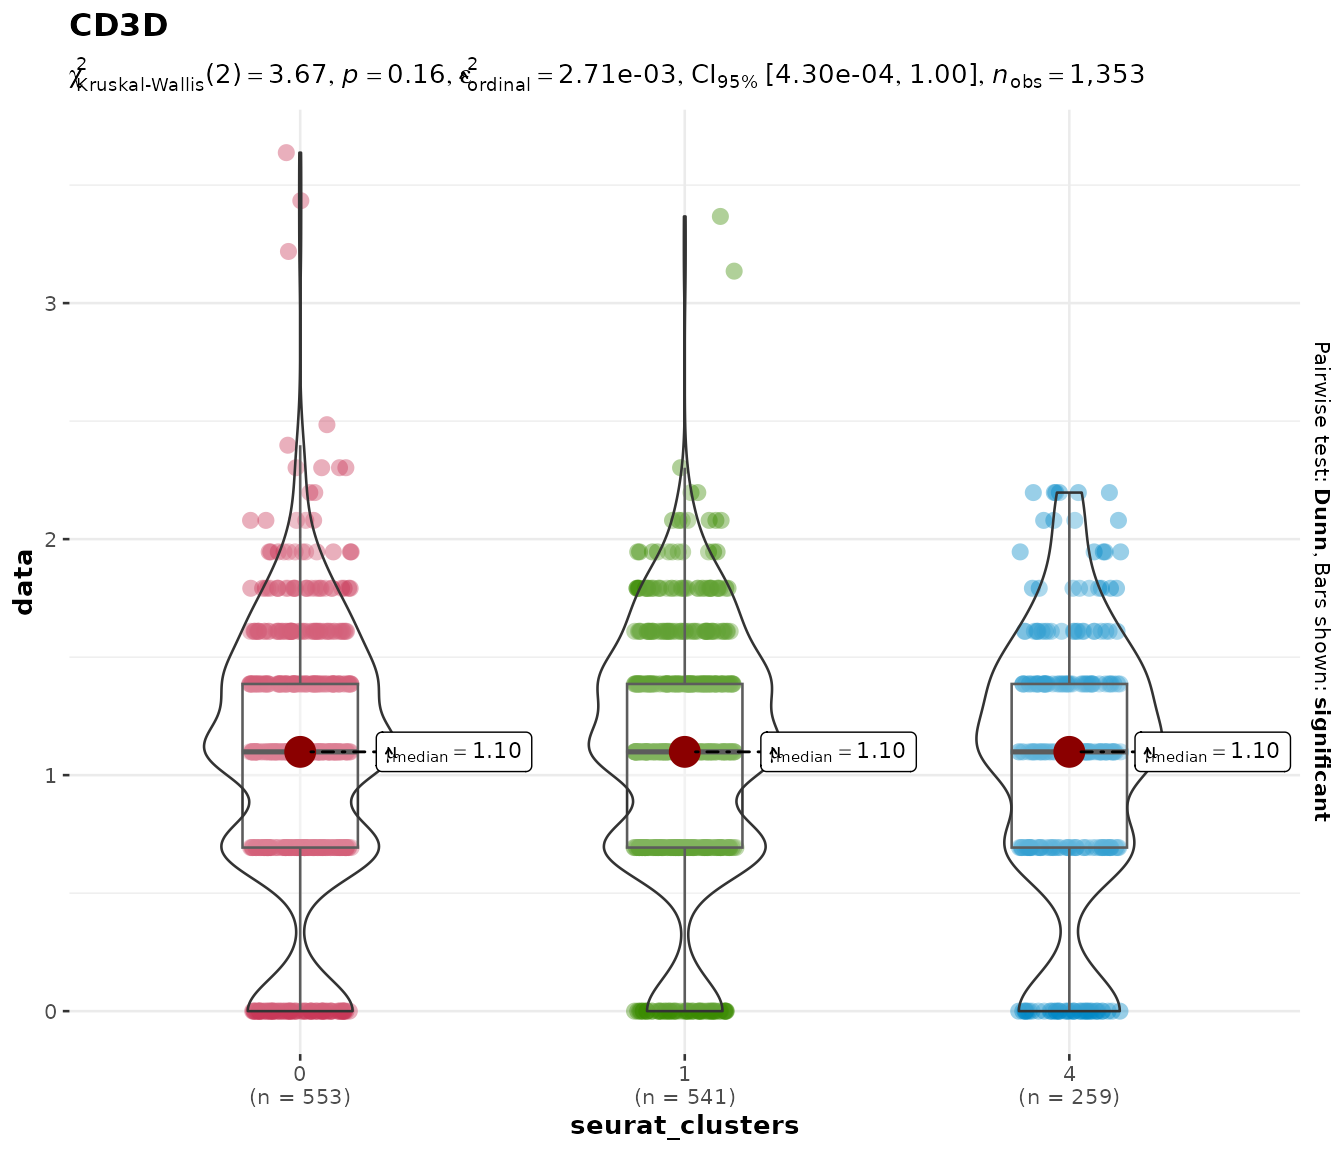
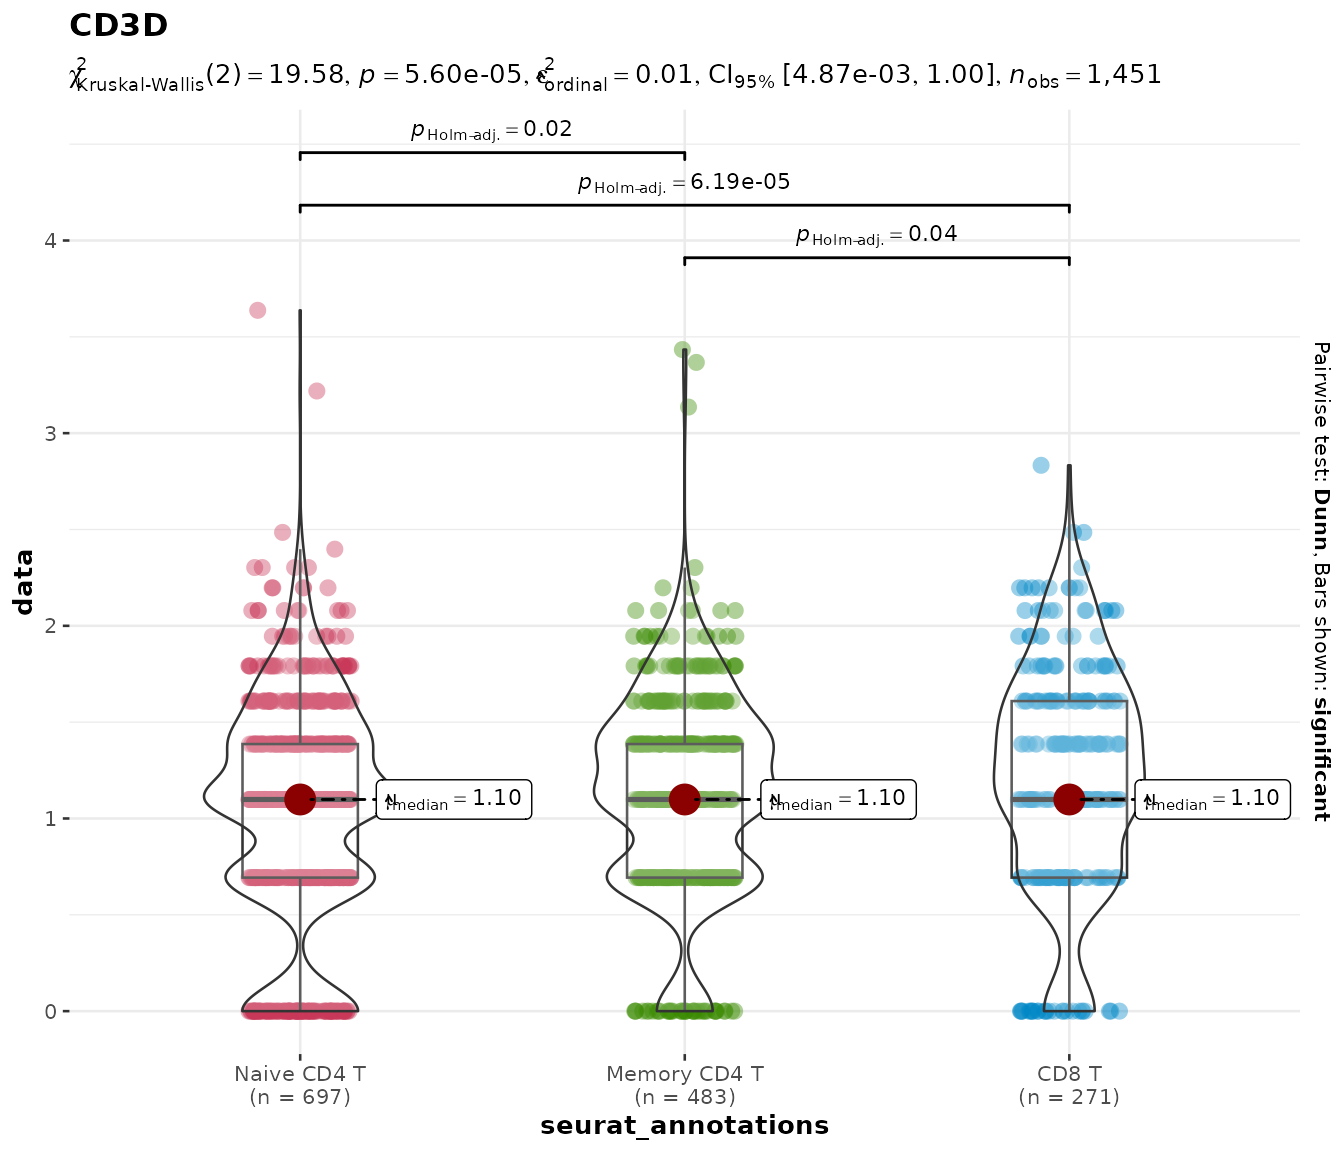
Deploying to gh-pages from @ wolf5996/BadranSeq@913fc14bdf36c6a6427538f494ae3e6e487bb031 🚀

diff --git a/articles/visualisation.html b/articles/visualisation.html
@@ -282,19 +282,19 @@ want the same aesthetic without statistics, use
 annotating the plot with p-values:</p>
 <div class="sourceCode" id="cb14"><pre class="downlit sourceCode r">
 <code class="sourceCode R"><span><span class="fu"><a href="../reference/do_StatsViolinPlot.html">do_StatsViolinPlot</a></span><span class="op">(</span><span class="va">pbmc3k</span>, features <span class="op">=</span> <span class="st">"CD3D"</span>,</span>
-<span>                   group.by <span class="op">=</span> <span class="st">"seurat_clusters"</span><span class="op">)</span></span></code></pre></div>
+<span>                   group.by <span class="op">=</span> <span class="st">"seurat_annotations"</span>,</span>
+<span>                   pairwise.display <span class="op">=</span> <span class="st">"none"</span><span class="op">)</span></span></code></pre></div>
 <pre><code><span><span class="co">## Warning: <span style="color: #BB0000;">✖</span> Number of labels is greater than default palette color count.</span></span>
 <span><span class="co">## <span style="color: #0000BB;">ℹ</span> Select another color `palette` (and/or `package`).</span></span></code></pre>
 <pre><code><span><span class="co">## Scale for <span style="color: #00BB00;">colour</span> is already present.</span></span>
 <span><span class="co">## Adding another scale for <span style="color: #00BB00;">colour</span>, which will replace the existing scale.</span></span></code></pre>
 <p><img src="visualisation_files/figure-html/stats-violin-basic-1.png" class="r-plt" alt="" width="672"></p>
+<p>With nine annotation groups, pairwise brackets would overwhelm the
+figure. The <code>pairwise.display</code> argument controls this:</p>
 </div>
 <div class="section level3">
 <h3 id="controlling-pairwise-comparisons">Controlling pairwise comparisons<a class="anchor" aria-label="anchor" href="#controlling-pairwise-comparisons"></a>
 </h3>
-<p>With many groups, pairwise brackets quickly clutter the plot. The
-<code>pairwise.display</code> argument controls which comparisons are
-drawn:</p>
 <table class="table">
 <thead><tr class="header">
 <th>Value</th>
@@ -322,29 +322,21 @@ drawn:</p>
 <p>Setting <code>pairwise.display = "none"</code> keeps the subtitle
 showing the overall test statistic while removing all bracket
 annotations — useful for publication figures where the brackets would
-overlap:</p>
-<div class="sourceCode" id="cb17"><pre class="downlit sourceCode r">
-<code class="sourceCode R"><span><span class="fu"><a href="../reference/do_StatsViolinPlot.html">do_StatsViolinPlot</a></span><span class="op">(</span><span class="va">pbmc3k</span>, features <span class="op">=</span> <span class="st">"CD3D"</span>,</span>
-<span>                   group.by <span class="op">=</span> <span class="st">"seurat_clusters"</span>,</span>
-<span>                   pairwise.display <span class="op">=</span> <span class="st">"none"</span><span class="op">)</span></span></code></pre></div>
-<pre><code><span><span class="co">## Warning: <span style="color: #BB0000;">✖</span> Number of labels is greater than default palette color count.</span></span>
-<span><span class="co">## <span style="color: #0000BB;">ℹ</span> Select another color `palette` (and/or `package`).</span></span></code></pre>
-<pre><code><span><span class="co">## Scale for <span style="color: #00BB00;">colour</span> is already present.</span></span>
-<span><span class="co">## Adding another scale for <span style="color: #00BB00;">colour</span>, which will replace the existing scale.</span></span></code></pre>
-<p><img src="visualisation_files/figure-html/stats-violin-no-pairwise-1.png" class="r-plt" alt="" width="672"></p>
+overlap.</p>
 </div>
 <div class="section level3">
 <h3 id="comparing-specific-groups-with-group-levels">Comparing specific groups with <code>group.levels</code><a class="anchor" aria-label="anchor" href="#comparing-specific-groups-with-group-levels"></a>
 </h3>
-<p>Often you do not want to compare all clusters — perhaps only a few
+<p>Often you do not want to compare all cell types — perhaps only a few
 are biologically relevant. The <code>group.levels</code> argument
 filters the grouping variable to a specified subset <em>before</em> the
 statistical test is run, so the test is performed only on the groups you
-care about:</p>
-<div class="sourceCode" id="cb20"><pre class="downlit sourceCode r">
+care about.</p>
+<p>With fewer groups, pairwise brackets become readable again:</p>
+<div class="sourceCode" id="cb17"><pre class="downlit sourceCode r">
 <code class="sourceCode R"><span><span class="fu"><a href="../reference/do_StatsViolinPlot.html">do_StatsViolinPlot</a></span><span class="op">(</span><span class="va">pbmc3k</span>, features <span class="op">=</span> <span class="st">"CD3D"</span>,</span>
-<span>                   group.by <span class="op">=</span> <span class="st">"seurat_clusters"</span>,</span>
-<span>                   group.levels <span class="op">=</span> <span class="fu"><a href="https://rdrr.io/r/base/c.html" class="external-link">c</a></span><span class="op">(</span><span class="st">"0"</span>, <span class="st">"1"</span>, <span class="st">"4"</span><span class="op">)</span><span class="op">)</span></span></code></pre></div>
+<span>                   group.by <span class="op">=</span> <span class="st">"seurat_annotations"</span>,</span>
+<span>                   group.levels <span class="op">=</span> <span class="fu"><a href="https://rdrr.io/r/base/c.html" class="external-link">c</a></span><span class="op">(</span><span class="st">"Naive CD4 T"</span>, <span class="st">"Memory CD4 T"</span>, <span class="st">"CD8 T"</span><span class="op">)</span><span class="op">)</span></span></code></pre></div>
 <pre><code><span><span class="co">## Scale for <span style="color: #00BB00;">colour</span> is already present.</span></span>
 <span><span class="co">## Adding another scale for <span style="color: #00BB00;">colour</span>, which will replace the existing scale.</span></span></code></pre>
 <p><img src="visualisation_files/figure-html/stats-violin-group-levels-1.png" class="r-plt" alt="" width="672"></p>
@@ -357,12 +349,11 @@ the need to drop unused factor levels.</p>
 <p>The default nonparametric test is appropriate for most scRNA-seq
 data, but you can switch to parametric (ANOVA / <em>t</em>-test),
 robust, or Bayesian tests via the <code>type</code> argument:</p>
-<div class="sourceCode" id="cb22"><pre class="downlit sourceCode r">
+<div class="sourceCode" id="cb19"><pre class="downlit sourceCode r">
 <code class="sourceCode R"><span><span class="fu"><a href="../reference/do_StatsViolinPlot.html">do_StatsViolinPlot</a></span><span class="op">(</span><span class="va">pbmc3k</span>, features <span class="op">=</span> <span class="st">"CD3D"</span>,</span>
-<span>                   group.by <span class="op">=</span> <span class="st">"seurat_clusters"</span>,</span>
+<span>                   group.by <span class="op">=</span> <span class="st">"seurat_annotations"</span>,</span>
+<span>                   group.levels <span class="op">=</span> <span class="fu"><a href="https://rdrr.io/r/base/c.html" class="external-link">c</a></span><span class="op">(</span><span class="st">"Naive CD4 T"</span>, <span class="st">"Memory CD4 T"</span>, <span class="st">"CD8 T"</span><span class="op">)</span>,</span>
 <span>                   type <span class="op">=</span> <span class="st">"parametric"</span><span class="op">)</span></span></code></pre></div>
-<pre><code><span><span class="co">## Warning: <span style="color: #BB0000;">✖</span> Number of labels is greater than default palette color count.</span></span>
-<span><span class="co">## <span style="color: #0000BB;">ℹ</span> Select another color `palette` (and/or `package`).</span></span></code></pre>
 <pre><code><span><span class="co">## Scale for <span style="color: #00BB00;">colour</span> is already present.</span></span>
 <span><span class="co">## Adding another scale for <span style="color: #00BB00;">colour</span>, which will replace the existing scale.</span></span></code></pre>
 <p><img src="visualisation_files/figure-html/stats-violin-parametric-1.png" class="r-plt" alt="" width="672"></p>
@@ -371,10 +362,11 @@ robust, or Bayesian tests via the <code>type</code> argument:</p>
 <h3 id="multiple-genes">Multiple genes<a class="anchor" aria-label="anchor" href="#multiple-genes"></a>
 </h3>
 <p>Pass a vector of gene names to get a combined patchwork layout:</p>
-<div class="sourceCode" id="cb25"><pre class="downlit sourceCode r">
+<div class="sourceCode" id="cb21"><pre class="downlit sourceCode r">
 <code class="sourceCode R"><span><span class="fu"><a href="../reference/do_StatsViolinPlot.html">do_StatsViolinPlot</a></span><span class="op">(</span><span class="va">pbmc3k</span>,</span>
 <span>                   features <span class="op">=</span> <span class="fu"><a href="https://rdrr.io/r/base/c.html" class="external-link">c</a></span><span class="op">(</span><span class="st">"CD3D"</span>, <span class="st">"CD8A"</span><span class="op">)</span>,</span>
-<span>                   group.by <span class="op">=</span> <span class="st">"seurat_clusters"</span>,</span>
+<span>                   group.by <span class="op">=</span> <span class="st">"seurat_annotations"</span>,</span>
+<span>                   pairwise.display <span class="op">=</span> <span class="st">"none"</span>,</span>
 <span>                   ncol <span class="op">=</span> <span class="fl">2</span><span class="op">)</span></span></code></pre></div>
 <pre><code><span><span class="co">## Warning: <span style="color: #BB0000;">✖</span> Number of labels is greater than default palette color count.</span></span>
 <span><span class="co">## <span style="color: #0000BB;">ℹ</span> Select another color `palette` (and/or `package`).</span></span></code></pre>
@@ -392,8 +384,9 @@ robust, or Bayesian tests via the <code>type</code> argument:</p>
 <p><code><a href="../reference/do_ViolinPlot.html">do_ViolinPlot()</a></code> produces a violin + boxplot + jitter +
 centrality marker (median diamond) without any statistical annotation.
 Use this when you want a clean descriptive plot:</p>
-<div class="sourceCode" id="cb30"><pre class="downlit sourceCode r">
-<code class="sourceCode R"><span><span class="fu"><a href="../reference/do_ViolinPlot.html">do_ViolinPlot</a></span><span class="op">(</span><span class="va">pbmc3k</span>, features <span class="op">=</span> <span class="st">"CD3D"</span><span class="op">)</span></span></code></pre></div>
+<div class="sourceCode" id="cb26"><pre class="downlit sourceCode r">
+<code class="sourceCode R"><span><span class="fu"><a href="../reference/do_ViolinPlot.html">do_ViolinPlot</a></span><span class="op">(</span><span class="va">pbmc3k</span>, features <span class="op">=</span> <span class="st">"CD3D"</span>,</span>
+<span>              group.by <span class="op">=</span> <span class="st">"seurat_annotations"</span><span class="op">)</span></span></code></pre></div>
 <p><img src="visualisation_files/figure-html/plain-violin-1.png" class="r-plt" alt="" width="672"></p>
 </div>
 </div>

diff --git a/index.html b/index.html
@@ -164,8 +164,8 @@
 <p><code><a href="reference/do_StatsViolinPlot.html">do_StatsViolinPlot()</a></code> wraps <code><a href="https://indrajeetpatil.github.io/ggstatsplot/reference/ggbetweenstats.html" class="external-link">ggstatsplot::ggbetweenstats()</a></code> with Seurat-aware data extraction, automatic colour generation, and a <code>group.levels</code> argument for comparing specific clusters:</p>
 <div class="sourceCode" id="cb4"><pre class="downlit sourceCode r">
 <code class="sourceCode R"><span><span class="fu"><a href="reference/do_StatsViolinPlot.html">do_StatsViolinPlot</a></span><span class="op">(</span><span class="va">pbmc3k</span>, features <span class="op">=</span> <span class="st">"CD3D"</span>,</span>
-<span>                   group.by <span class="op">=</span> <span class="st">"seurat_clusters"</span>,</span>
-<span>                   group.levels <span class="op">=</span> <span class="fu"><a href="https://rdrr.io/r/base/c.html" class="external-link">c</a></span><span class="op">(</span><span class="st">"0"</span>, <span class="st">"1"</span>, <span class="st">"4"</span><span class="op">)</span><span class="op">)</span></span></code></pre></div>
+<span>                   group.by <span class="op">=</span> <span class="st">"seurat_annotations"</span>,</span>
+<span>                   group.levels <span class="op">=</span> <span class="fu"><a href="https://rdrr.io/r/base/c.html" class="external-link">c</a></span><span class="op">(</span><span class="st">"Naive CD4 T"</span>, <span class="st">"Memory CD4 T"</span>, <span class="st">"CD8 T"</span><span class="op">)</span><span class="op">)</span></span></code></pre></div>
 <p><img src="reference/figures/README-stats-violin-1.png" alt="" width="100%"></p>
 <p>Set <code>pairwise.display = "none"</code> to keep the omnibus test subtitle without bracket clutter.</p>
 </div>

diff --git a/articles/visualisation.md b/articles/visualisation.md
@@ -233,7 +233,8 @@ comparisons (Dunn’s test) by default, annotating the plot with p-values:
 
 ``` r
 do_StatsViolinPlot(pbmc3k, features = "CD3D",
-                   group.by = "seurat_clusters")
+                   group.by = "seurat_annotations",
+                   pairwise.display = "none")
 ```
 
     ## Warning: ✖ Number of labels is greater than default palette color count.
@@ -244,10 +245,10 @@ do_StatsViolinPlot(pbmc3k, features = "CD3D",
 
 ![](visualisation_files/figure-html/stats-violin-basic-1.png)
 
-### Controlling pairwise comparisons
+With nine annotation groups, pairwise brackets would overwhelm the
+figure. The `pairwise.display` argument controls this:
 
-With many groups, pairwise brackets quickly clutter the plot. The
-`pairwise.display` argument controls which comparisons are drawn:
+### Controlling pairwise comparisons
 
 | Value               | Behaviour                        |
 |---------------------|----------------------------------|
@@ -258,33 +259,21 @@ With many groups, pairwise brackets quickly clutter the plot. The
 
 Setting `pairwise.display = "none"` keeps the subtitle showing the
 overall test statistic while removing all bracket annotations — useful
-for publication figures where the brackets would overlap:
-
-``` r
-do_StatsViolinPlot(pbmc3k, features = "CD3D",
-                   group.by = "seurat_clusters",
-                   pairwise.display = "none")
-```
-
-    ## Warning: ✖ Number of labels is greater than default palette color count.
-    ## ℹ Select another color `palette` (and/or `package`).
-
-    ## Scale for colour is already present.
-    ## Adding another scale for colour, which will replace the existing scale.
-
-![](visualisation_files/figure-html/stats-violin-no-pairwise-1.png)
+for publication figures where the brackets would overlap.
 
 ### Comparing specific groups with `group.levels`
 
-Often you do not want to compare all clusters — perhaps only a few are
+Often you do not want to compare all cell types — perhaps only a few are
 biologically relevant. The `group.levels` argument filters the grouping
 variable to a specified subset *before* the statistical test is run, so
-the test is performed only on the groups you care about:
+the test is performed only on the groups you care about.
+
+With fewer groups, pairwise brackets become readable again:
 
 ``` r
 do_StatsViolinPlot(pbmc3k, features = "CD3D",
-                   group.by = "seurat_clusters",
-                   group.levels = c("0", "1", "4"))
+                   group.by = "seurat_annotations",
+                   group.levels = c("Naive CD4 T", "Memory CD4 T", "CD8 T"))
 ```
 
     ## Scale for colour is already present.
@@ -303,12 +292,10 @@ tests via the `type` argument:
 
 ``` r
 do_StatsViolinPlot(pbmc3k, features = "CD3D",
-                   group.by = "seurat_clusters",
+                   group.by = "seurat_annotations",
+                   group.levels = c("Naive CD4 T", "Memory CD4 T", "CD8 T"),
                    type = "parametric")
 ```
-
-    ## Warning: ✖ Number of labels is greater than default palette color count.
-    ## ℹ Select another color `palette` (and/or `package`).
 
     ## Scale for colour is already present.
     ## Adding another scale for colour, which will replace the existing scale.
@@ -322,7 +309,8 @@ Pass a vector of gene names to get a combined patchwork layout:
 ``` r
 do_StatsViolinPlot(pbmc3k,
                    features = c("CD3D", "CD8A"),
-                   group.by = "seurat_clusters",
+                   group.by = "seurat_annotations",
+                   pairwise.display = "none",
                    ncol = 2)
 ```
 
@@ -348,7 +336,8 @@ diamond) without any statistical annotation. Use this when you want a
 clean descriptive plot:
 
 ``` r
-do_ViolinPlot(pbmc3k, features = "CD3D")
+do_ViolinPlot(pbmc3k, features = "CD3D",
+              group.by = "seurat_annotations")
 ```
 
 ![](visualisation_files/figure-html/plain-violin-1.png)

diff --git a/index.md b/index.md
@@ -87,8 +87,8 @@ with Seurat-aware data extraction, automatic colour generation, and a
 
 ``` r
 do_StatsViolinPlot(pbmc3k, features = "CD3D",
-                   group.by = "seurat_clusters",
-                   group.levels = c("0", "1", "4"))
+                   group.by = "seurat_annotations",
+                   group.levels = c("Naive CD4 T", "Memory CD4 T", "CD8 T"))
 ```
 
 ![](reference/figures/README-stats-violin-1.png)
